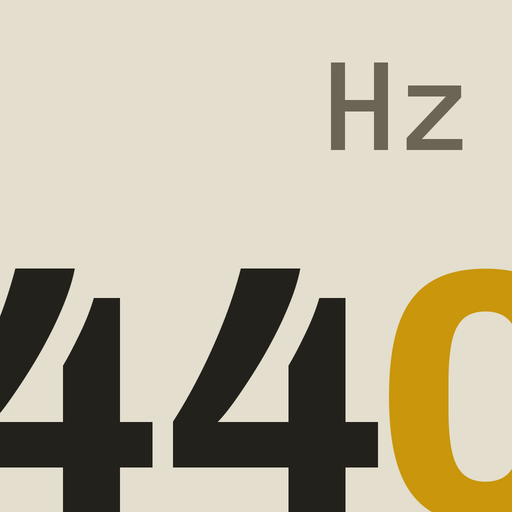
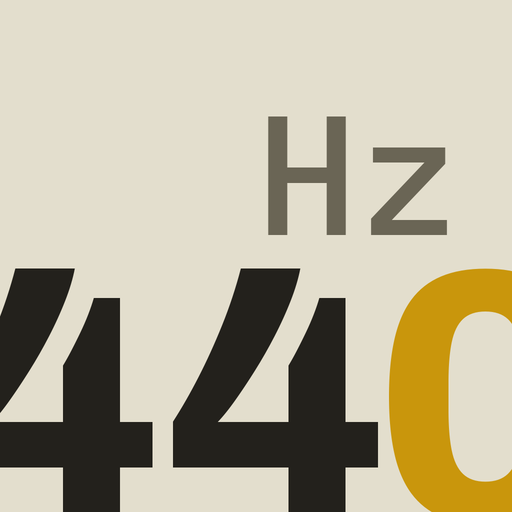
Ícone: Hz maior, começando no meio
Claude-Session: https://claude.ai/code/session_01LGDWBDeo74QiZbRsDJfg8z

Changed region(s): [[0.5, 0.125, 0.9062, 0.4688]]

diff --git a/sw.js b/sw.js
@@ -1,6 +1,6 @@
 // Guarda o app no iPhone para abrir mesmo sem internet.
 // Ao publicar uma versão nova, troque o número abaixo para o iPhone baixar de novo.
-const VERSAO = "alvo-13";
+const VERSAO = "alvo-14";
 const ARQUIVOS = ["./", "index.html", "manifest.webmanifest", "icone-180.png", "icone-192.png", "icone-512.png"];
 
 self.addEventListener("install", e => {
